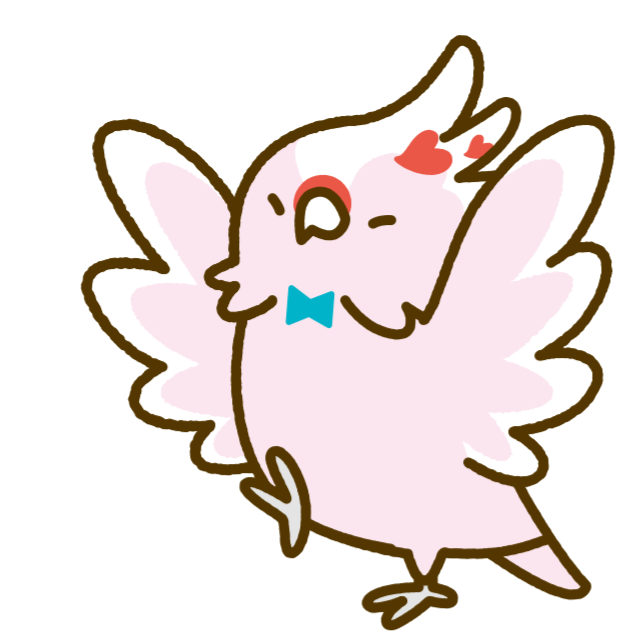
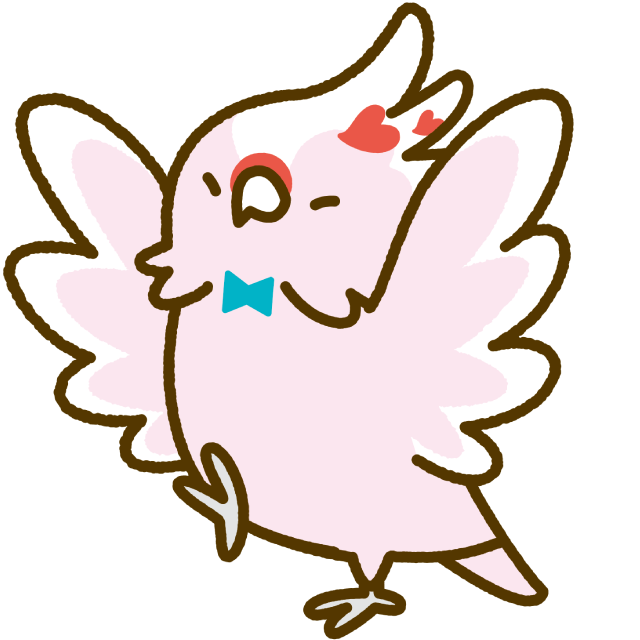
画像データ更新

diff --git a/styles/content.module.css b/styles/content.module.css
@@ -97,8 +97,8 @@
 .charaBack {
   position: absolute;
   z-index: 10;
-  top: 194px;
-  left: 7%;
+  top: 212px;
+  left: 13%;
 }
 
 .charaFront1 {
@@ -135,7 +135,7 @@
   min-width: 40%;
 }
 
-.btnFflatSimple {
+.btnflatSimple {
   z-index: 12;
   position: relative;
   font-weight: bold;
@@ -151,7 +151,7 @@
   border: 3px solid #ffffff;
 }
 
-.btnFflatSimple:hover {
+.btnflatSimple:hover {
   background: #3fb669;
   color: white;
   cursor: pointer;

diff --git a/components/talkMain.js b/components/talkMain.js
@@ -589,7 +589,7 @@ export default function TalkMain() {
           MUCHAN: (
             <MuchanSpeak
               key={state}
-              strings={"きっと、むずかしい言葉なんだとおもう。"}
+              strings={"きっと、むずかしい言葉なんだね。"}
             />
           ),
           PAUSE: "think",

diff --git a/components/selectAnswer.js b/components/selectAnswer.js
@@ -27,7 +27,7 @@ function SelectAnswer(props) {
   for (let cnt = 0; cnt < props.answerList.length; cnt++) {
     items.push(
       <div
-        className={styles.btnFflatSimple}
+        className={styles.btnflatSimple}
         key={cnt}
         onClick={function () {
           if (props.nextState) {
